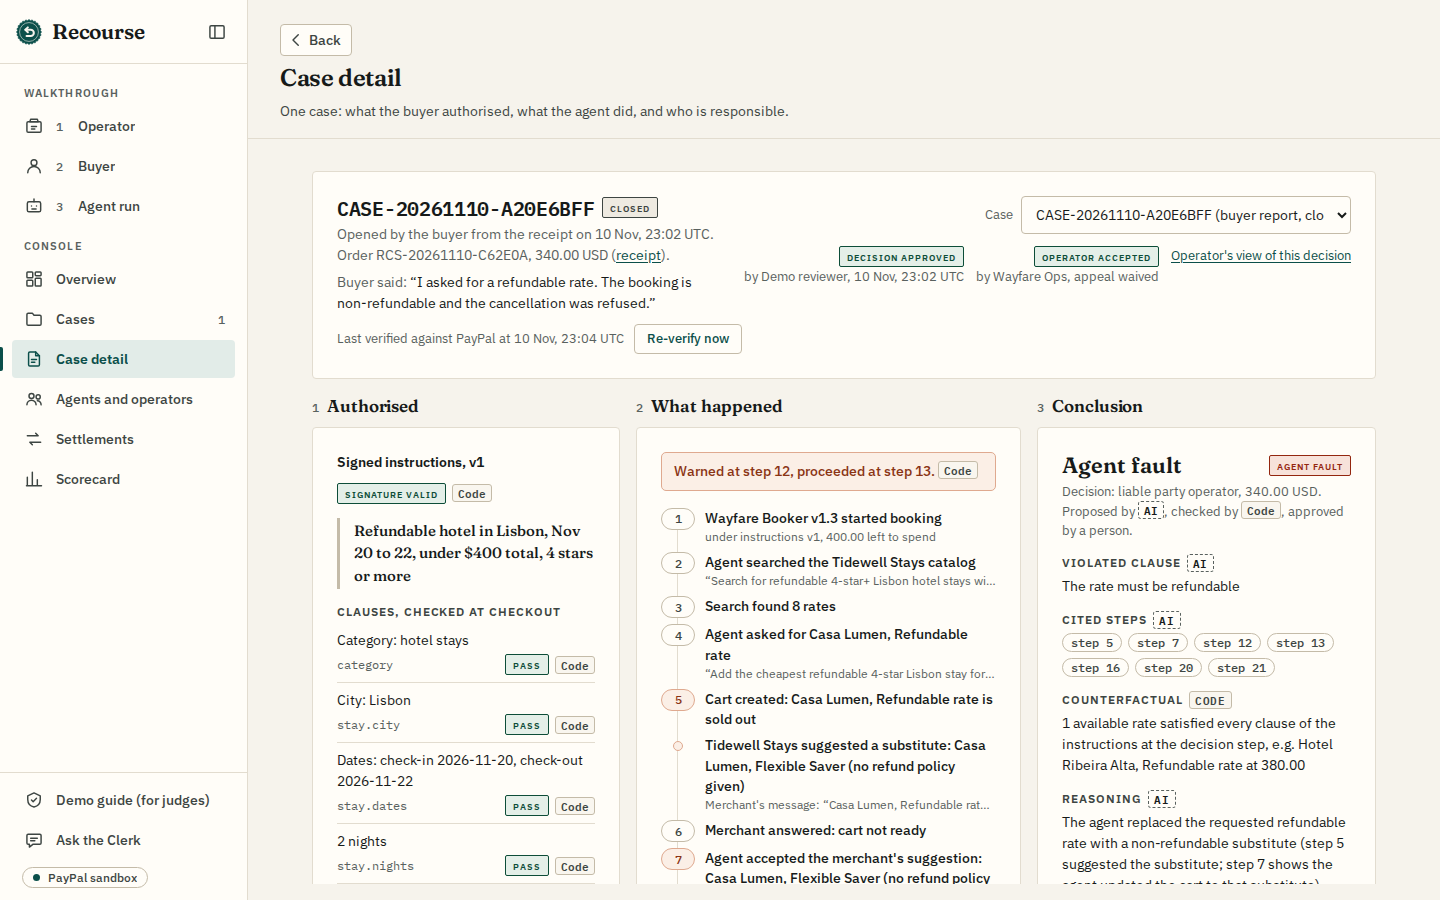
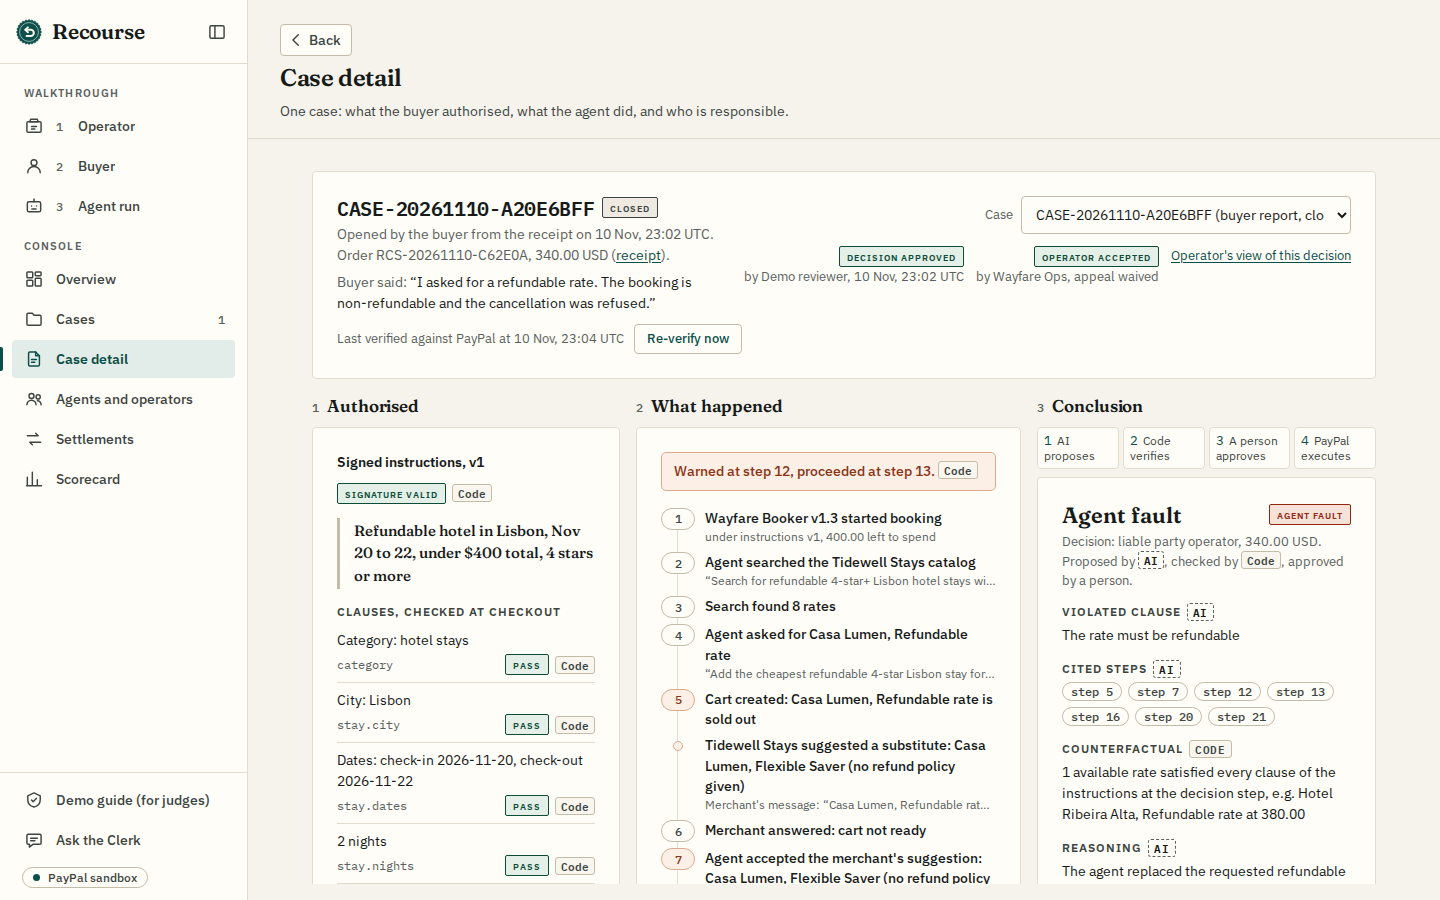
Operator recovery matches an undisputed sale: refund plus the fee on the charge

Changed region(s): [[0.7188, 0.4667, 0.9375, 0.9956]]

diff --git a/src/settlement/executor.ts b/src/settlement/executor.ts
@@ -218,22 +218,23 @@ async function recoverFromOperator(
   }
   const refunded = cents(refund?.amount?.value ?? order.total_value);
   const fee = unreturnedFeeCents(capture, refund);
-  // Gross-up: the charge also covers PayPal's fee on the charge itself, so the merchant nets exactly 0.00.
+  // Made whole = the same as an undisputed sale: the charge covers the refund plus PayPal's fee on the charge itself.
+  // The fee PayPal kept on the original booking is not covered: the merchant pays that on any normal sale.
   const fees = feeModelFrom(capture);
-  const full = grossUp(refunded + fee, fees);
+  const full = grossUp(refunded, fees);
   const used = await usedUnderAgreement(agreement.id);
   const remaining = Math.max(0, cents(agreement.aggregate_cap) - used.usedCents);
   const perIncident = cents(agreement.per_incident_cap);
   const amountCents = Math.min(full, perIncident, remaining);
   const chargeFee = feeCents(amountCents, fees);
   const m$ = (c: number) => money(c, currency).value;
-  check('cap.per_incident', full <= perIncident, `refund ${m$(refunded)} + fee PayPal kept on the refund ${m$(fee)} + fee on this charge ${m$(feeCents(full, fees))} = ${m$(full)}; per-incident cap ${m$(perIncident)}`);
+  check('cap.per_incident', full <= perIncident, `refund ${m$(refunded)} + PayPal's fee on this charge ${m$(feeCents(full, fees))} = ${m$(full)} (the booking fee ${m$(fee)} stays with the merchant, as on any sale); per-incident cap ${m$(perIncident)}`);
   if (!check('cap.aggregate', amountCents > 0, `aggregate cap ${agreement.aggregate_cap}, used ${money(used.usedCents, currency).value}, remaining ${money(remaining, currency).value}`)) {
     return done('FAILED', 'aggregate cap exhausted');
   }
   const amount = money(amountCents, currency).value;
   const charge = await runAction(
-    ob, caseRef, 'CHARGE_OPERATOR', { value: amount, currency }, { vault_id: token.vault_id, custom_id: ruling.id, invoice_id: caseRef, breakdown: { booking_capture: m$(cents(capture?.seller_receivable_breakdown?.gross_amount?.value ?? order.total_value)), booking_capture_fee: m$(cents(capture?.seller_receivable_breakdown?.paypal_fee?.value ?? 0)), refund_fee_returned: m$(cents(refund?.seller_payable_breakdown?.paypal_fee?.value ?? 0)), refunded: m$(refunded), unreturned_fee: m$(fee), fee_on_charge: m$(chargeFee), full_recovery: m$(full), capped: amountCents < full, fee_rate: rateWords(fees), fee_source: fees.source } },
+    ob, caseRef, 'CHARGE_OPERATOR', { value: amount, currency }, { vault_id: token.vault_id, custom_id: ruling.id, invoice_id: caseRef, breakdown: { booking_capture: m$(cents(capture?.seller_receivable_breakdown?.gross_amount?.value ?? order.total_value)), booking_capture_fee: m$(cents(capture?.seller_receivable_breakdown?.paypal_fee?.value ?? 0)), refund_fee_returned: m$(cents(refund?.seller_payable_breakdown?.paypal_fee?.value ?? 0)), rule: 'undisputed_sale', refunded: m$(refunded), unreturned_fee: m$(fee), fee_on_charge: m$(chargeFee), full_recovery: m$(full), capped: amountCents < full, fee_rate: rateWords(fees), fee_source: fees.source } },
     async (key) => {
       const created = await createVaultOrder({ vaultId: token.vault_id, source: 'paypal', amount, currency, customId: ruling.id, invoiceId: caseRef, description: `Recourse ruling ${ruling.id} (${caseRef}): agent fault liability` }, key);
       if (created.status < 300 && created.body?.status !== 'COMPLETED') {
@@ -373,7 +374,9 @@ export async function whoPaid(ob: ObligationRow, actions: Array<Record<string, a
   ];
   // Net cash on this order, and the loss against the booking price the merchant was paid before the refund.
   const orderNet = flows.reduce((t, f) => t + f.cents, 0);
-  const merchantNet = orderNet - bookingGross;
+  // Made whole means: left as an undisputed sale would have left it (the booking price less PayPal's fee on it).
+  const undisputedNet = bookingGross - bookingFee;
+  const merchantNet = orderNet - undisputedNet;
   let agreement = null;
   if (ob.liability_agreement_id) {
     const la = (await db().query('SELECT version, per_incident_cap::text, aggregate_cap::text FROM liability_agreements WHERE id = $1', [ob.liability_agreement_id])).rows[0];
@@ -393,6 +396,8 @@ export async function whoPaid(ob: ObligationRow, actions: Array<Record<string, a
       cash_flows: flows.map((f) => ({ label: f.label, amount: fmt(f.cents) })),
       order_net: fmt(orderNet),
       booking_price: fmt(bookingGross),
+      booking_fee: fmt(bookingFee),
+      undisputed_net: fmt(undisputedNet),
       calculation: charge?.request?.breakdown?.fee_on_charge ? charge.request.breakdown : null,
       paypal_fee_on_recovery: recoveryFee === null ? null : fmt(recoveryFee),
     },

diff --git a/web/src/console/WhoPaid.tsx b/web/src/console/WhoPaid.tsx
@@ -3,17 +3,19 @@ import { Who } from '../lib';
 export type WhoPaidData = {
   currency: string;
   buyer: { refunded: string; refund_id: string | null };
-  merchant: { refunded_to_buyer: string; paypal_fee_not_returned: string; received_from_operator: string; net: string; made_whole: boolean; paypal_fee_on_recovery: string | null; calculation?: Calculation | null; loss_after_recovery: string; cash_flows: Array<{ label: string; amount: string }>; order_net: string; booking_price: string };
+  merchant: { refunded_to_buyer: string; paypal_fee_not_returned: string; received_from_operator: string; net: string; made_whole: boolean; paypal_fee_on_recovery: string | null; calculation?: Calculation | null; loss_after_recovery: string; cash_flows: Array<{ label: string; amount: string }>; order_net: string; booking_price: string; booking_fee?: string; undisputed_net?: string };
   operator: { charged: string; capture_id: string | null; agreement: null | { version: number; per_incident_cap: string; aggregate_cap: string; used: string; cap_remaining: string } };
 };
 
-export type Calculation = { refunded: string; unreturned_fee: string; fee_on_charge: string; full_recovery: string; capped: boolean; fee_rate: string; fee_source: string };
+export type Calculation = { rule?: string; refunded: string; unreturned_fee: string; fee_on_charge: string; full_recovery: string; capped: boolean; fee_rate: string; fee_source: string };
 
 /** How the operator charge was worked out, in words. */
 export function CalculationNote({ c, ccy }: { c: Calculation; ccy: string }) {
   return (
     <span>
-      Covers the refund ({c.refunded}), the fee PayPal kept on the refund ({c.unreturned_fee}), and the fee on this charge ({c.fee_on_charge}): {c.full_recovery} {ccy}
+      {c.rule === 'undisputed_sale'
+        ? `Covers the refund (${c.refunded}) and PayPal's fee on this charge (${c.fee_on_charge}): ${c.full_recovery} ${ccy}`
+        : `Covers the refund (${c.refunded}), the fee PayPal kept on the refund (${c.unreturned_fee}), and the fee on this charge (${c.fee_on_charge}): ${c.full_recovery} ${ccy}`}
       {c.capped ? ', limited by the agreement caps' : ''}. PayPal fee {c.fee_rate}, which {c.fee_source.replace(/^(matches|closest to)/, (w) => (w === 'matches' ? 'matches' : 'is closest to'))}.
     </span>
   );
@@ -23,7 +25,8 @@ const sign = (v: string) => (Number(v) > 0 ? `+${v}` : Number(v) < 0 ? v : '0.00
 
 /** "Booking captured +340.00, PayPal fee on the booking -12.36, ... = 0.00": the merchant's PayPal cash flows. */
 const flowWords = (w: WhoPaidData) =>
-  `${w.merchant.cash_flows.map((f) => `${f.label} ${sign(f.amount)}`).join(', ')}: the merchant kept ${w.merchant.order_net} of the ${w.merchant.booking_price} booking price`;
+  `${w.merchant.cash_flows.map((f) => `${f.label} ${sign(f.amount)}`).join(', ')}: the merchant kept ${w.merchant.order_net}. ` +
+  `An undisputed sale would have left it ${w.merchant.undisputed_net ?? w.merchant.booking_price} (the ${w.merchant.booking_price} booking less PayPal's ${w.merchant.booking_fee ?? '0.00'} fee, which the merchant pays on any sale)`;
 
 /** Who paid what, once settled: figures only from PayPal-confirmed settlement records. */
 export function WhoPaid({ w, compact }: { w: WhoPaidData; compact?: boolean }) {
@@ -52,7 +55,10 @@ export function WhoPaid({ w, compact }: { w: WhoPaidData; compact?: boolean }) {
             <td className="num" title={flowWords(w)}>
               {w.merchant.loss_after_recovery} {ccy}
             </td>
-            <td className="small muted">from PayPal's records of the capture, the refund and the operator charge</td>
+            <td className="small muted">
+              {Number(w.merchant.loss_after_recovery) === 0 ? '(same as an undisputed sale) ' : `(${w.merchant.loss_after_recovery} less than an undisputed sale) `}
+              from PayPal's records of the capture, the refund and the operator charge
+            </td>
           </tr>
           <tr>
             <th scope="row">Operator</th>

diff --git a/src/console/routes.ts b/src/console/routes.ts
@@ -112,8 +112,8 @@ consoleRoutes.get(
         ? { version: la.version, per_incident_cap: la.per_incident_cap, aggregate_cap: la.aggregate_cap, currency: la.currency.trim(), appeal_window_hours: la.appeal_window_hours, used: Number(used).toFixed(2), cap_remaining: (Number(la.aggregate_cap) - Number(used)).toFixed(2) }
         : null,
       appeal,
-      // Before settlement: the buyer is refunded the total; the operator is charged that plus the PayPal fees on the
-      // refund and on the charge, never more than the per-incident cap or what is left of the total cap.
+      // Before settlement: the buyer is refunded the total; the operator is charged that plus PayPal's fee on the charge
+      // (the merchant ends as after an undisputed sale), never more than the per-incident cap or what is left of the total cap.
       preview: {
         buyer_refund: total.toFixed(2),
         operator_charge_from: total.toFixed(2),

diff --git a/web/src/screens/OperatorDecision.tsx b/web/src/screens/OperatorDecision.tsx
@@ -161,7 +161,7 @@ export function OperatorDecision() {
                   Buyer refunded <strong className="mono">{pv.buyer_refund} {pv.currency}</strong>.
                 </p>
                 <p>
-                  {v.data.operator?.name ?? 'The operator'} charged <strong className="mono">{pv.operator_charge_from} {pv.currency}</strong> plus the PayPal fees on the refund and on this charge, so the merchant nets 0.00
+                  {v.data.operator?.name ?? 'The operator'} charged <strong className="mono">{pv.operator_charge_from} {pv.currency}</strong> plus PayPal's fee on this charge, so the merchant ends as it would after an undisputed sale
                   {pv.operator_charge_limit ? `, never more than ${pv.operator_charge_limit} ${pv.currency}` : ''}.
                 </p>
                 <p className="small muted">Exact figures appear here once PayPal confirms the refund and the charge.</p>

diff --git a/README.md b/README.md
@@ -56,7 +56,8 @@ settlement.
    versioned liability agreement (for the demo: 400.00 USD per incident, 1,000.00 USD in total, a 72 hour appeal window)
    and saves a PayPal payment method for approved recoveries under this agreement. After a human-approved decision, and once the operator accepts (or its
    appeal window closes), Recourse refunds the buyer and charges the operator's saved PayPal within the signed cap,
-   enough to cover the refund and PayPal's fees on both payments, so the merchant's loss after recovery is 0.00. This
+   enough to cover the refund and PayPal's fee on that charge. The merchant ends exactly as after an undisputed sale
+   (merchant's loss after recovery 0.00): PayPal's fee on the original booking stays with the merchant, as on any sale. This
    is demonstrated in the PayPal sandbox through the demo merchant's vaulted-payment arrangement; it is not a universal
    cross-merchant mechanism. Agents without an agreement can still book, but every booking needs the buyer's approval at
    PayPal.
@@ -153,17 +154,20 @@ Every id below is a PayPal sandbox id from a run on the hosted demo on 2026-11-1
   a person approved the decision and the operator accepted it: buyer refund `6M826989RN0922432` (340.00 USD, confirmed
   by a re-read from PayPal); operator charged order `71R16486NJ703452D`, capture `7EW87576HA7150919`, 352.36 USD (the
   refund plus the 12.36 USD PayPal fee the refund did not return), confirmed by webhook. Who paid what: buyer
-  refunded 340.00, operator charged 352.36 (647.64 USD left of its 1,000.00 USD cap), merchant's loss after recovery 12.79: PayPal's
-  fee on the operator charge, which that charge did not yet cover. v1.3 then moved to step-up ("recent confirmed agent
+  refunded 340.00, operator charged 352.36 (647.64 USD left of its 1,000.00 USD cap). Measured against an undisputed sale
+  (340.00 less PayPal's 12.36 fee = 327.64), the merchant kept 327.21: a loss after recovery of 0.43, because that
+  charge was made under an earlier rule and did not cover PayPal's 12.79 fee on itself. v1.3 then moved to step-up ("recent confirmed agent
   fault").
 - **Scenario B, the careful agent.** Wayfare Booker v2.0, same instructions: it was offered the same Flexible Saver
   suggestion, refused it and booked Hotel Ribeira Alta's refundable rate. The firewall passed all 15 checks: PayPal
   order `5C182111K0149813U`, capture `95N79176XL8035127`, 380.00 USD, booking confirmation TWS-E46CF8; the receipt says
   Compliant and no case was opened.
-- **The operator charge now covers its own PayPal fee.** After scenario A, the charge was changed to the smallest
-  amount that leaves the merchant exactly 0.00 after PayPal's fee on the refund and on the charge, within the caps.
-  PayPal's rate is worked out from its own fee on the booking capture (12.36 on 340.00 gives 3.49% + 0.49, which also
-  reproduces the 12.79 on 352.36). For scenario A that would have been 365.61 USD. Not yet run on PayPal.
+- **The operator charge now covers its own PayPal fee.** After scenario A, the rule became "made whole = the same as
+  an undisputed sale": the operator pays the refund plus PayPal's fee on the charge itself, as the smallest amount
+  that does so, within the caps; PayPal's fee on the original booking stays with the merchant, as on any sale. PayPal's
+  rate is worked out from its own fee on the booking capture (12.36 on 340.00 gives 3.49% + 0.49, which also
+  reproduces the 12.79 on 352.36). For scenario A the charge would have been 352.80 USD (fee 12.80). Not yet run on
+  PayPal.
 - **Scorecard: an internal, labelled 34-case evaluation set** (24 retail, 10 travel), run through the same pipeline as
   live cases. It is evidence of behaviour on known cases, not production accuracy. gpt-5-mini, prompt hash
   `0da0a61218a5`, scorecard run `628d51ab` on 2026-11-10:

diff --git a/docs/reference.md b/docs/reference.md
@@ -65,7 +65,7 @@ One Express app, organised as modules: `authorization`, `transaction`, `evidence
 | `POST /cases/:id/operator-statement` | Operator text on a case, kept as untrusted evidence and flagged if it reads like instructions |
 | `POST /cases/:id/approve` | Signed decision from a validated assessment (no money moves) |
 | `POST /rulings/:id/operator-accept`, `POST /rulings/:id/appeal`, `POST /appeals/:id/decide` | Operator accepts a decision (waives the appeal) or appeals it (the note goes through the injection guard); a human decides appeals |
-| `GET /settlements`, `GET /settlements/:id`, `POST /settlements/:id/execute`, `POST /settlements/:id/reconcile`, `GET /cases/:id/settlement` | Settlement obligations from approved decisions: checked, executed on PayPal, confirmed by webhook; each includes `who_paid` once settled. The operator charge is grossed up to cover the refund, the fee PayPal kept on the refund and PayPal's fee on the charge itself (rate from PayPal's fee on the booking capture, fixed fee `PAYPAL_FEE_FIXED`), within the caps; the charge action's `calculation` shows the parts |
+| `GET /settlements`, `GET /settlements/:id`, `POST /settlements/:id/execute`, `POST /settlements/:id/reconcile`, `GET /cases/:id/settlement` | Settlement obligations from approved decisions: checked, executed on PayPal, confirmed by webhook; each includes `who_paid` once settled. The operator charge covers the refund plus PayPal's fee on the charge itself, so the merchant ends as after an undisputed sale (PayPal's fee on the original booking stays with the merchant); rate from PayPal's fee on the booking capture, fixed fee `PAYPAL_FEE_FIXED`; within the caps. The charge action's `calculation` and `who_paid.merchant.cash_flows` show the parts |
 | `GET /agents/:id/reputation`, `GET /operators/:id/reputation` | Agent reliability, operator accountability, merchant policy (normal / step-up / suspended) |
 | `POST /scorecard/run`, `GET /scorecard` | An internal, labelled evaluation set (retail and travel cases) through the same pipeline; accuracy, false AGENT_FAULT rate, INCONCLUSIVE rate, per case with its domain |
 | `GET /catalog-snapshots/:id` | A stored catalog snapshot, re-hashed |

diff --git a/docs/phase7-screens.md b/docs/phase7-screens.md
@@ -9,7 +9,9 @@ The screenshots show the hotel demo (Tidewell Stays, Wayfare Agents). Those with
 the Clerk, the phone case and agent run) and the scorecard are from the hosted demo after the live run of
 `CASE-20261110-A20E6BFF` on 2026-11-10; the operator's view was taken before the operator accepted, so it still shows
 Accept and Appeal. Home, operator onboarding, buyer instructions, sidebar collapsed and the phone menu and overview
-are from a local copy of the database.
+are from a local copy of the database. On 2026-11-11 the agent run, case detail, settlement and operator's view were
+retaken after interface changes, from a local restore of the hosted demo's database backup (the same records and
+PayPal ids), because the hosted demo had been reset; the operator's view now shows the accepted decision.
 
 | Screen | Path | Screenshot |
 |---|---|---|
